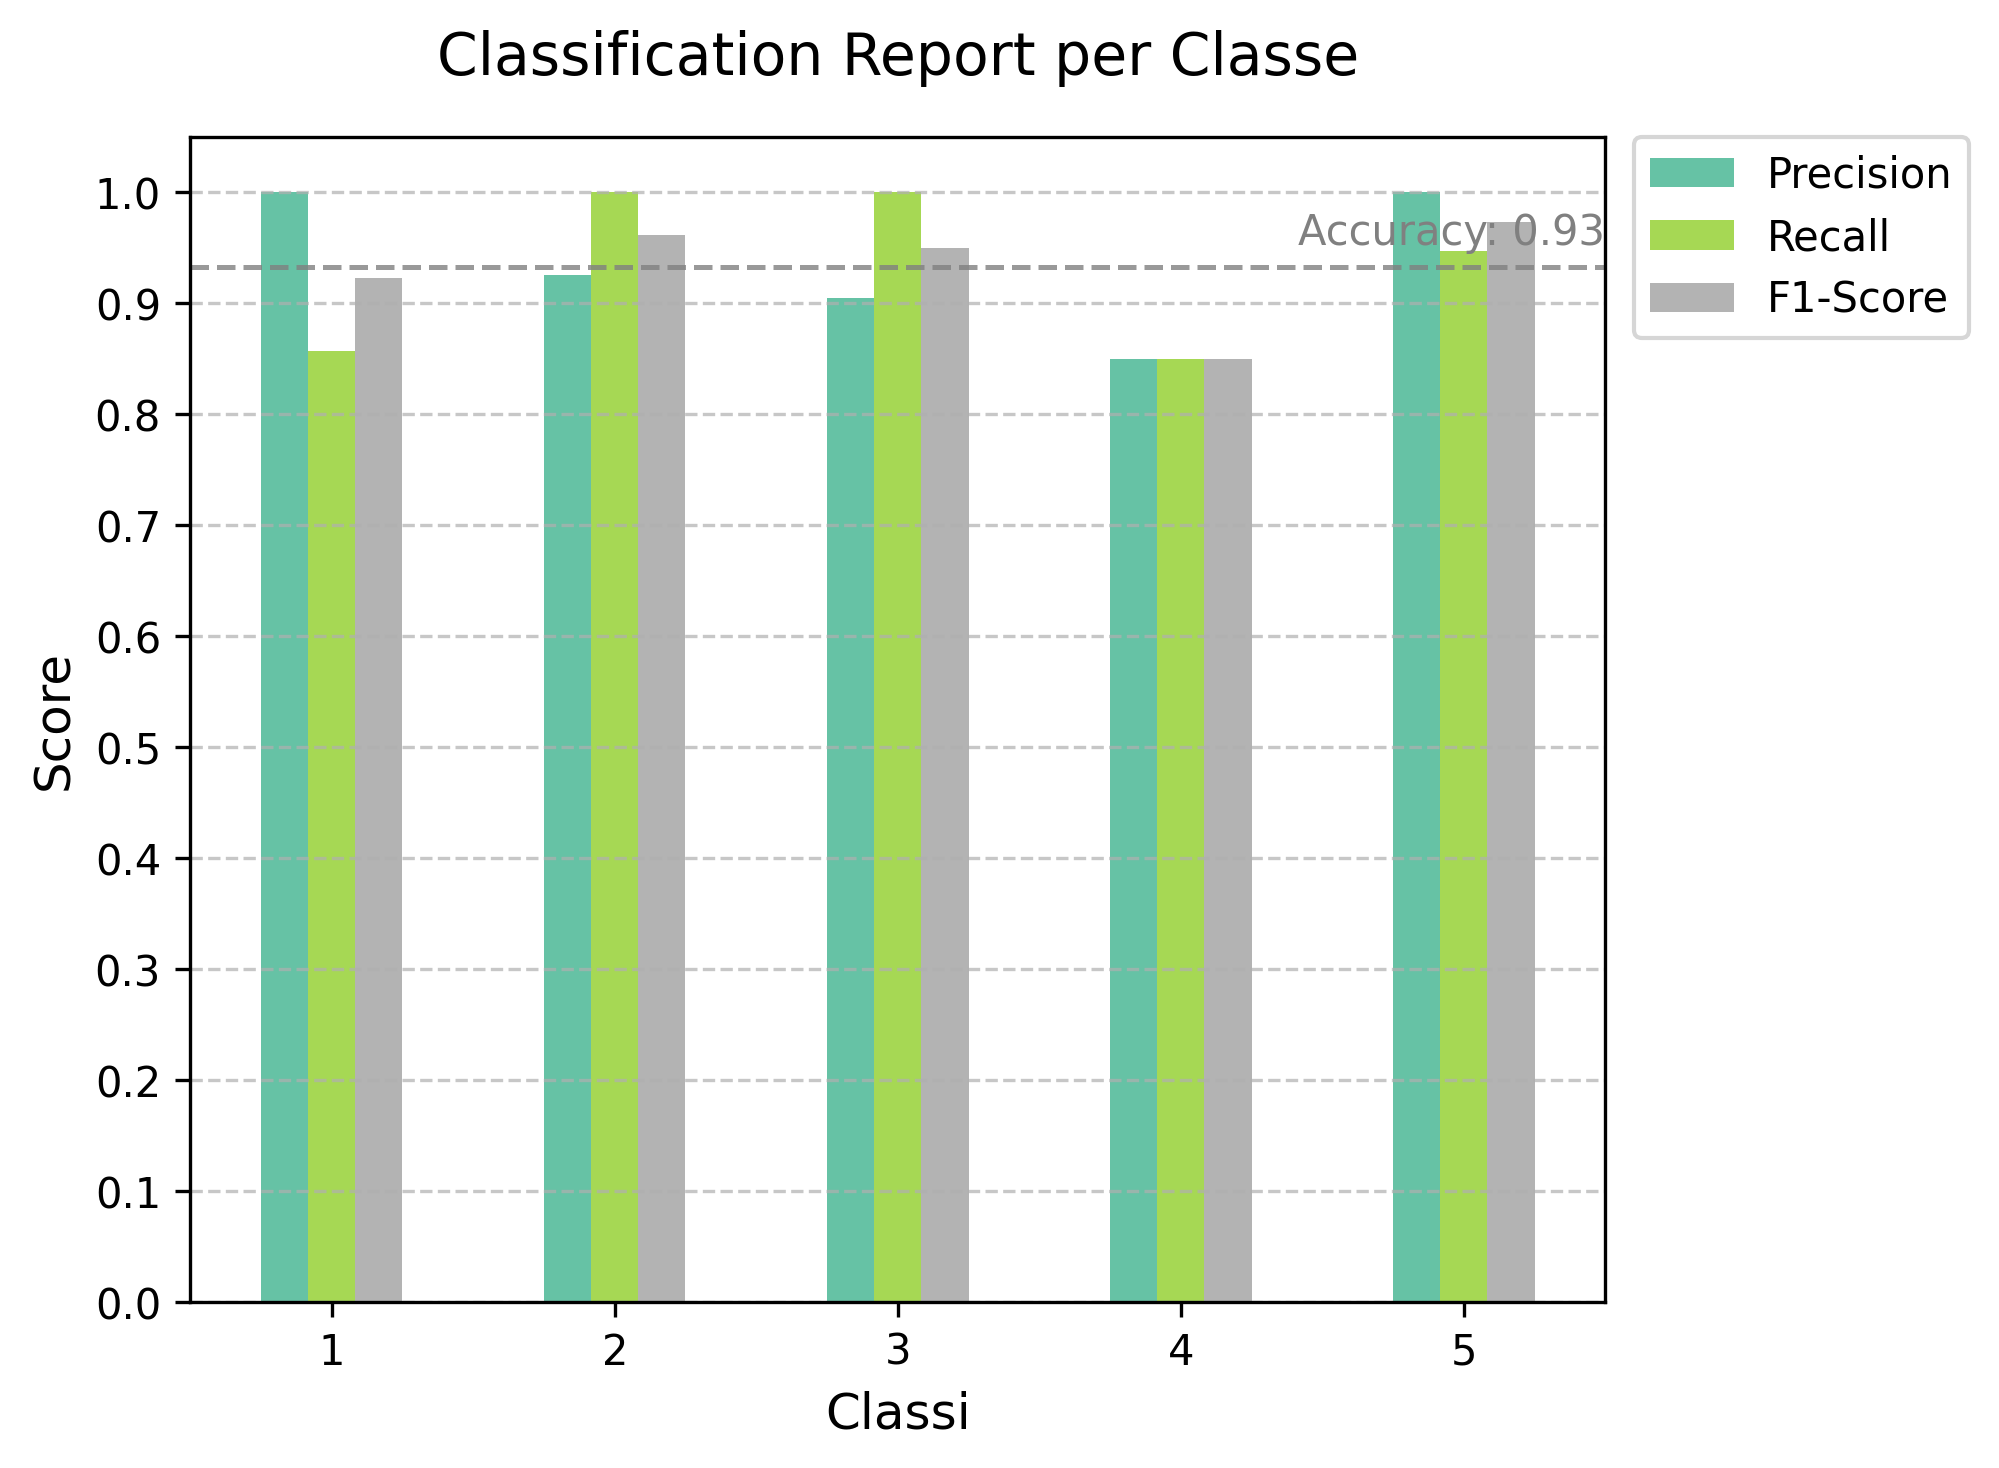
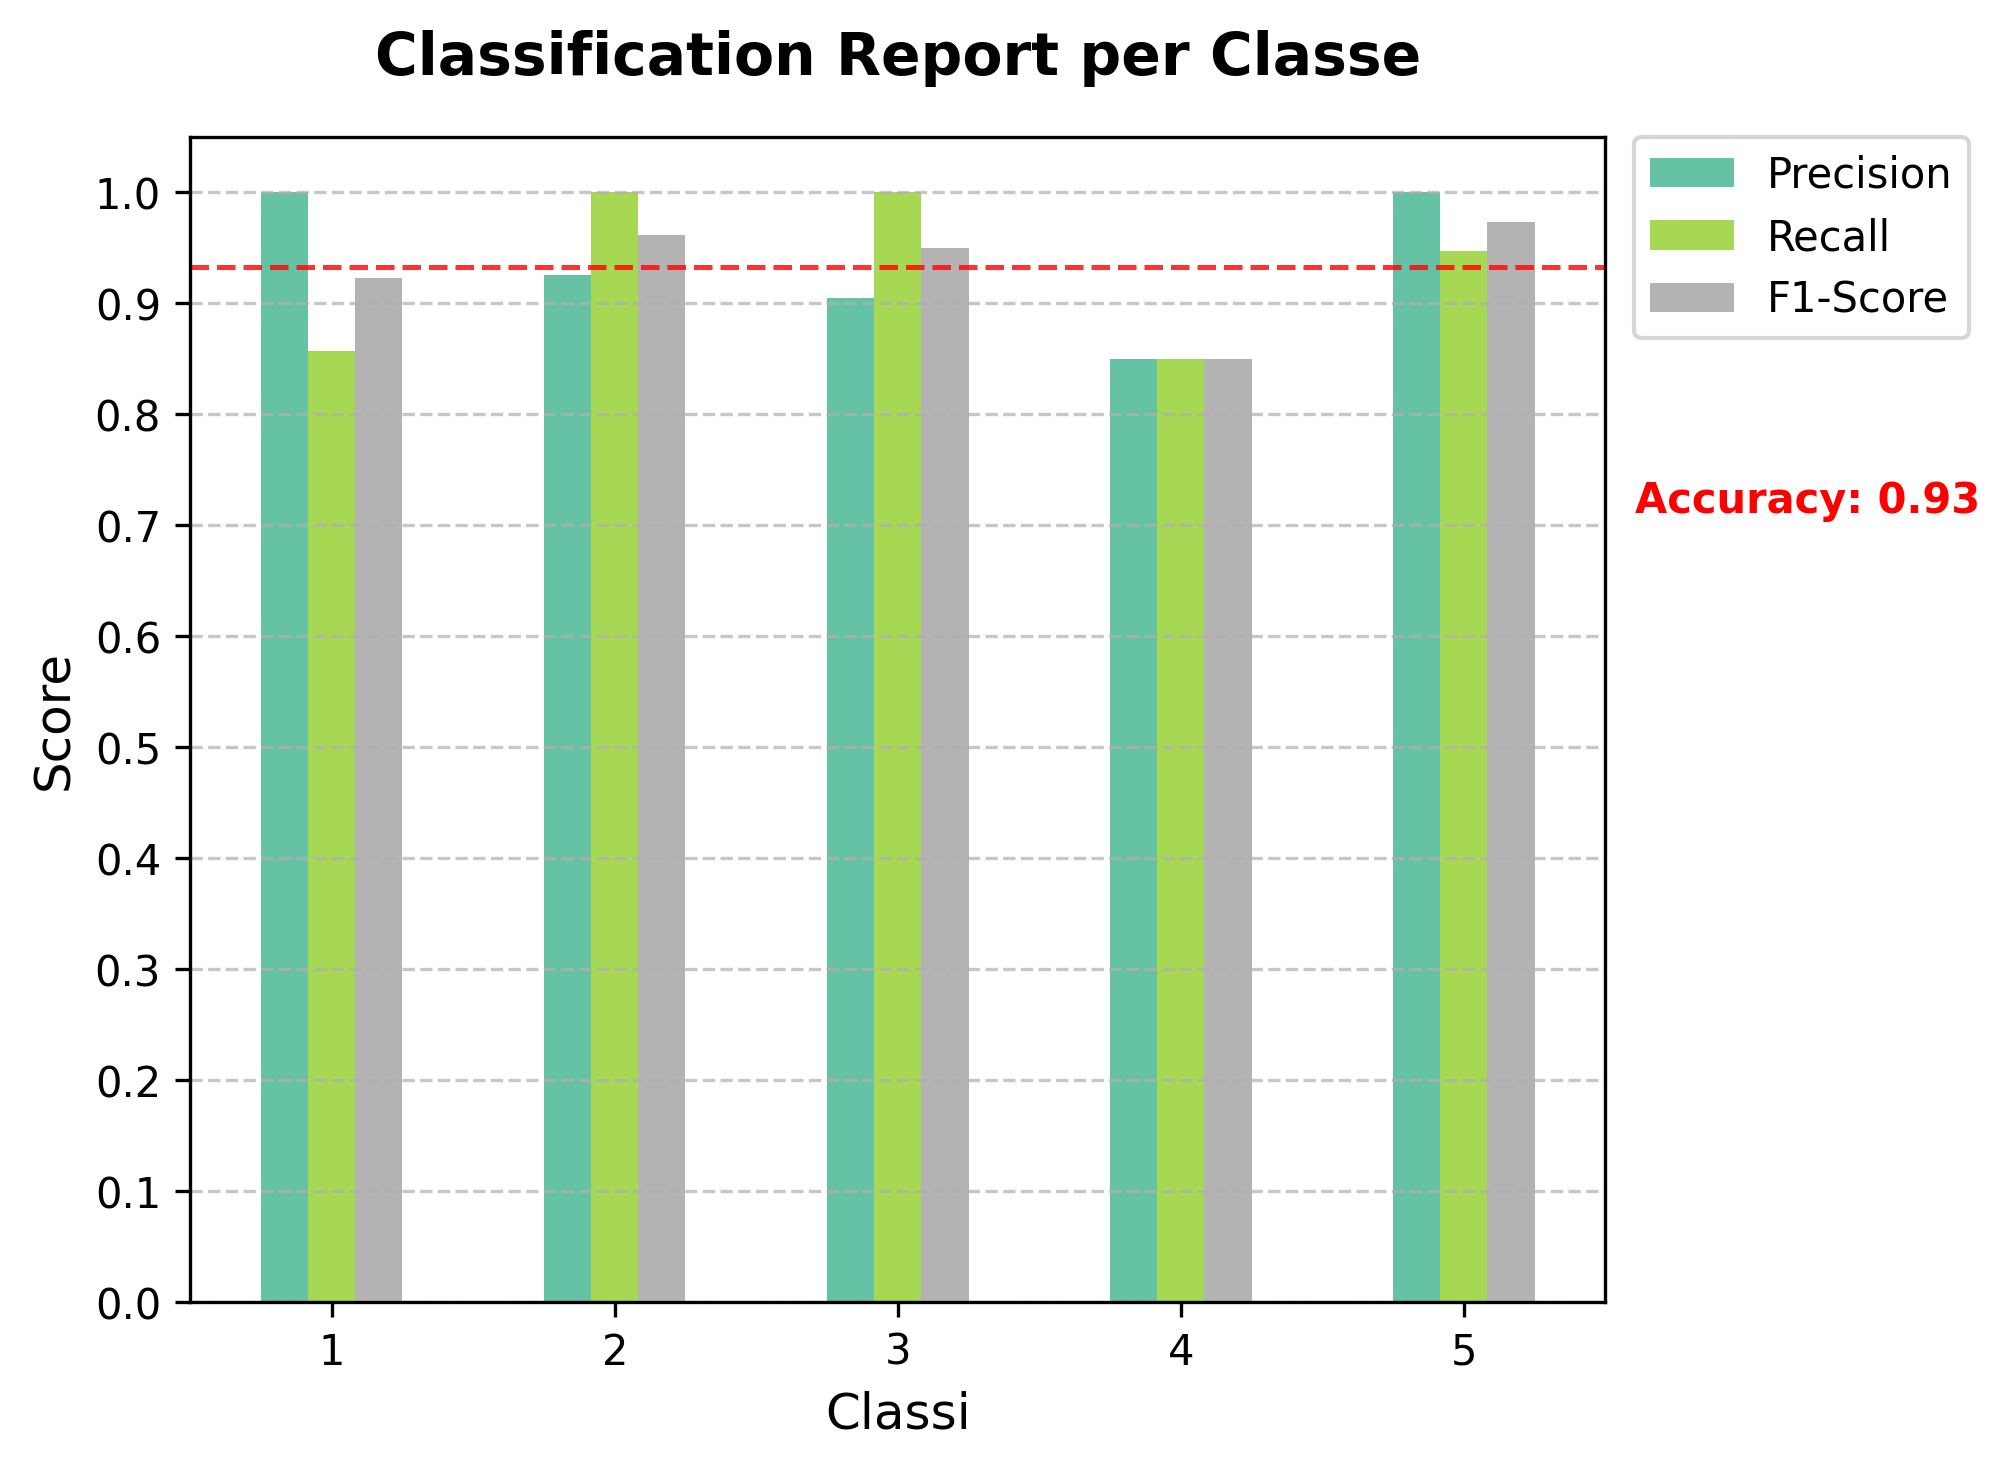
immagine

diff --git a/train_model.py b/train_model.py
@@ -70,24 +70,32 @@ df = pd.DataFrame(report).transpose()
 fig, ax = plt.subplots(figsize=(8, 5))
 bars = df.iloc[:-3, :3].plot(kind='bar', ax=ax, colormap='Set2')
 
-plt.title('Classification Report per Classe', fontsize=14, pad=15)
+# Titolo in grassetto
+plt.title('Classification Report per Classe', fontsize=14, fontweight='bold', pad=15)
 plt.ylabel('Score', fontsize=12)
 plt.xlabel('Classi', fontsize=12)
 
-plt.yticks([i/10 for i in range(0, 11)], fontsize=10)  
+plt.yticks([i/10 for i in range(0, 11)], fontsize=10)
 plt.xticks(rotation=0, fontsize=10)
 plt.grid(axis='y', linestyle='--', alpha=0.7)
 
+# Legenda
 plt.legend(['Precision', 'Recall', 'F1-Score'],
            bbox_to_anchor=(1.02, 1), loc='upper left', borderaxespad=0.)
 
+# Linea rossa tratteggiata per l'accuracy
 accuracy = df.loc['accuracy', 'precision']
-plt.axhline(y=accuracy, color='gray', linestyle='--', linewidth=1.2, alpha=0.8)
-plt.text(len(df.iloc[:-3]) - 0.5, accuracy + 0.02, 
-         f'Accuracy: {accuracy:.2f}', color='gray', fontsize=10, ha='right')
+plt.axhline(y=accuracy, color='red', linestyle='--', linewidth=1.2, alpha=0.8)
+
+# Impostiamo il layout prima di posizionare il testo
+plt.tight_layout(rect=[0, 0, 0.85, 1])
+fig.canvas.draw()
+
+# Scritta "Accuracy" sotto la legenda
+fig.text(0.76, 0.67, f'Accuracy: {accuracy:.2f}',
+         color='red', fontsize=10, fontweight='bold', ha='center', va='top')
 
 plt.ylim(0, 1.05)
-plt.tight_layout(rect=[0, 0, 0.85, 1])  
 
 plt.savefig("results/classification_report.png", dpi=300, bbox_inches='tight')
 plt.close()
